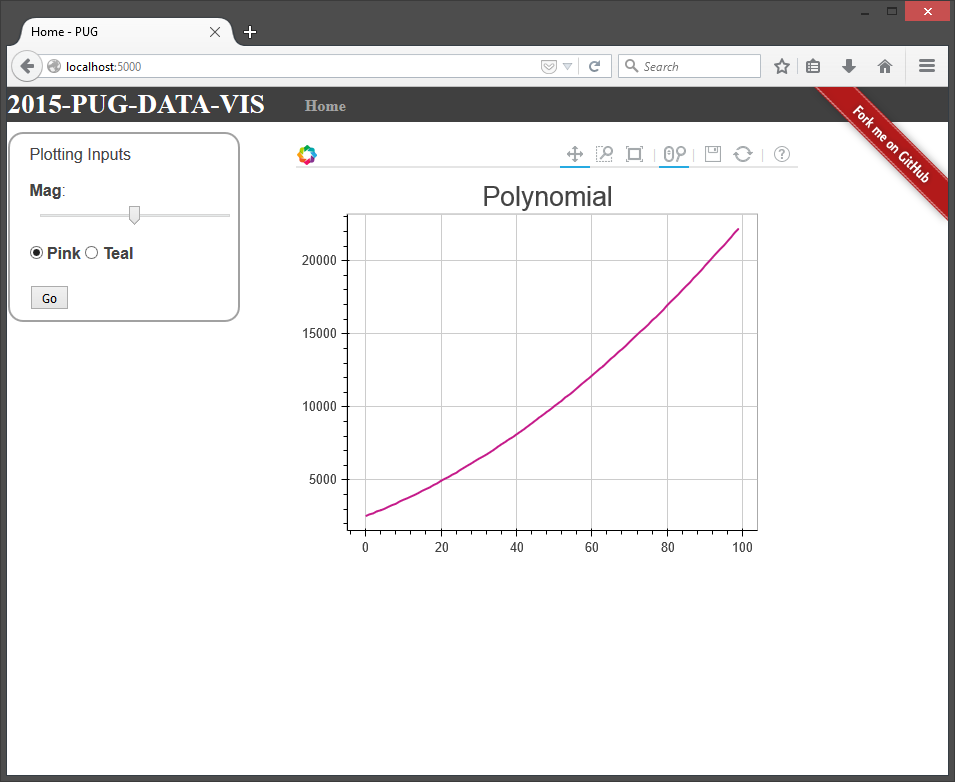
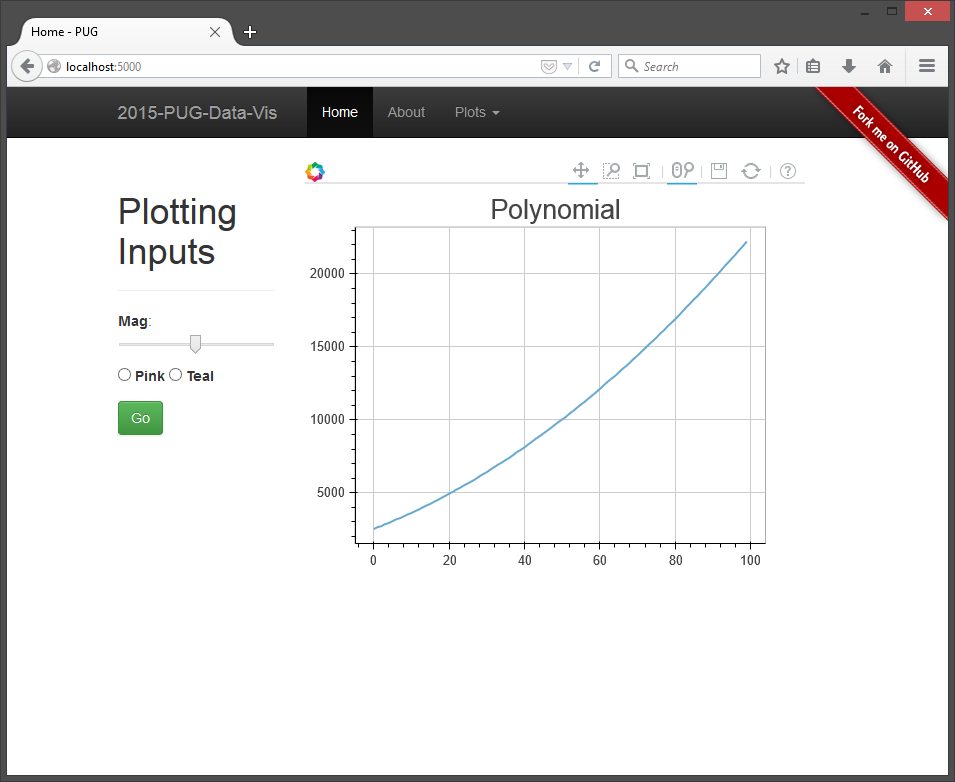
Upgrade layouts using Bootstrap

diff --git a/app/templates/layout.html b/app/templates/layout.html
@@ -7,24 +7,58 @@
   {% else %}
   <title>2015-PUG-Data-Vis</title>
   {% endif %}
-  <link rel="stylesheet" href="{{ url_for('static', filename='css/main.css') }}">
+  <!-- Latest compiled and minified CSS -->
+  <link rel="stylesheet" href="https://maxcdn.bootstrapcdn.com/bootstrap/3.3.5/css/bootstrap.min.css">
+  <!-- Optional theme -->
+  <link rel="stylesheet" href="https://maxcdn.bootstrapcdn.com/bootstrap/3.3.5/css/bootstrap-theme.min.css">
+  <style>
+    body {
+        padding-top: 65px;
+    }
+  </style>
   {% endblock %}
 </head>
 <body>
-  <header>
-    <div class="container">
-      <h1 class="logo">2015-PUG-Data-Vis</h1>
-      <strong><nav>
-        <ul class="menu">
-          <li><a href="{{ url_for('index') }}">Home</a></li>
-        </ul>
-      </nav></strong>
-    </div>
-  <a href="https://github.com/jakebrinkmann/2015-PUG-flask-data-vis"><img style="position: absolute; top: 0; right: 0; border: 0;" src="https://github-camo.global.ssl.fastly.net/365986a132ccd6a44c23a9169022c0b5c890c387/68747470733a2f2f73332e616d617a6f6e6177732e636f6d2f6769746875622f726962626f6e732f666f726b6d655f72696768745f7265645f6161303030302e706e67"></a>
-  </header>
-  <div class="container">
+  <!-- Fixed navbar -->
+    <nav class="navbar navbar-inverse navbar-fixed-top">
+      <div class="container">
+        <div class="navbar-header">
+          <button type="button" class="navbar-toggle collapsed" data-toggle="collapse" data-target="#navbar" aria-expanded="false" aria-controls="navbar">
+            <span class="sr-only">Toggle navigation</span>
+            <span class="icon-bar"></span>
+            <span class="icon-bar"></span>
+            <span class="icon-bar"></span>
+          </button>
+          <a class="navbar-brand" href="{{ url_for('index') }}">2015-PUG-Data-Vis</a>
+          <a class="navbar-brand" href="https://github.com/jakebrinkmann/2015-PUG-flask-data-vis"><img style="position: absolute; top: 0; right: 0; border: 0;" src="https://github-camo.global.ssl.fastly.net/365986a132ccd6a44c23a9169022c0b5c890c387/68747470733a2f2f73332e616d617a6f6e6177732e636f6d2f6769746875622f726962626f6e732f666f726b6d655f72696768745f7265645f6161303030302e706e67"></a>
+        </div>
+        <div id="navbar" class="navbar-collapse collapse">
+          <ul class="nav navbar-nav">
+            <li class="active"><a href="#">Home</a></li>
+            <li><a href="#about">About</a></li>
+            <li class="dropdown">
+              <a href="#" class="dropdown-toggle" data-toggle="dropdown" role="button" aria-haspopup="true" aria-expanded="false">Plots <span class="caret"></span></a>
+              <ul class="dropdown-menu">
+                <li><a href="#">Another action</a></li>
+                <li><a href="#">Something else here</a></li>
+                <li role="separator" class="divider"></li>
+                <li class="dropdown-header">Nav header</li>
+                <li><a href="#">Separated link</a></li>
+                <li><a href="#">One more separated link</a></li>
+              </ul>
+            </li>
+          </ul>
+        </div><!--/.nav-collapse -->
+      </div>
+    </nav>
+
+  <div class="container theme-showcase" role="main">
     {% block content %}
     {% endblock %}
   </div>
 </body>
+  <!-- jQuery (necessary for Bootstrap's JavaScript plugins) -->
+  <script src="https://ajax.googleapis.com/ajax/libs/jquery/1.11.3/jquery.min.js"></script>
+  <!-- Latest compiled and minified JavaScript -->
+  <script src="https://maxcdn.bootstrapcdn.com/bootstrap/3.3.5/js/bootstrap.min.js"></script>
 </html>

diff --git a/app/templates/index.html b/app/templates/index.html
@@ -7,24 +7,27 @@
 
 {% block content %}
 
-<div id="sidebar">
-  <span>Plotting Inputs</span>
-  <form method="POST" action="/">
-      {{form.hidden_tag()}}
-      <p>{{ form.my_slider.label }}: {{ form.my_slider }}</p>
-      <p>{% for subfield in form.my_radio %}
-          <tr>
-              <td>{{ subfield }}</td>
-              <td>{{ subfield.label }}</td>
-          </tr>
-      {% endfor %}</p>
-      <input type="submit" value="Go">
-  </form>
-</div>
-
-<div id="container" style="width:70%; height:400px;">
-  {{ div | safe }}
-  {{ script | safe }}
+<div class="row">
+  <div class="col-sm-3">
+    <div class="page-header">
+      <h1>Plotting Inputs</h1>
+    </div>
+    <form method="POST" action="/">
+        {{form.hidden_tag()}}
+        <p>{{ form.my_slider.label }}: {{ form.my_slider }}</p>
+        <p>{% for subfield in form.my_radio %}
+            <tr>
+                <td>{{ subfield }}</td>
+                <td>{{ subfield.label }}</td>
+            </tr>
+        {% endfor %}</p>
+        <input type="submit" value="Go" class="btn btn-md btn-success">
+    </form>
+  </div>
+  <div class="col-sm-9">
+    {{ div | safe }}
+    {{ script | safe }}
+  </div>
 </div>
 
 {% endblock %}
